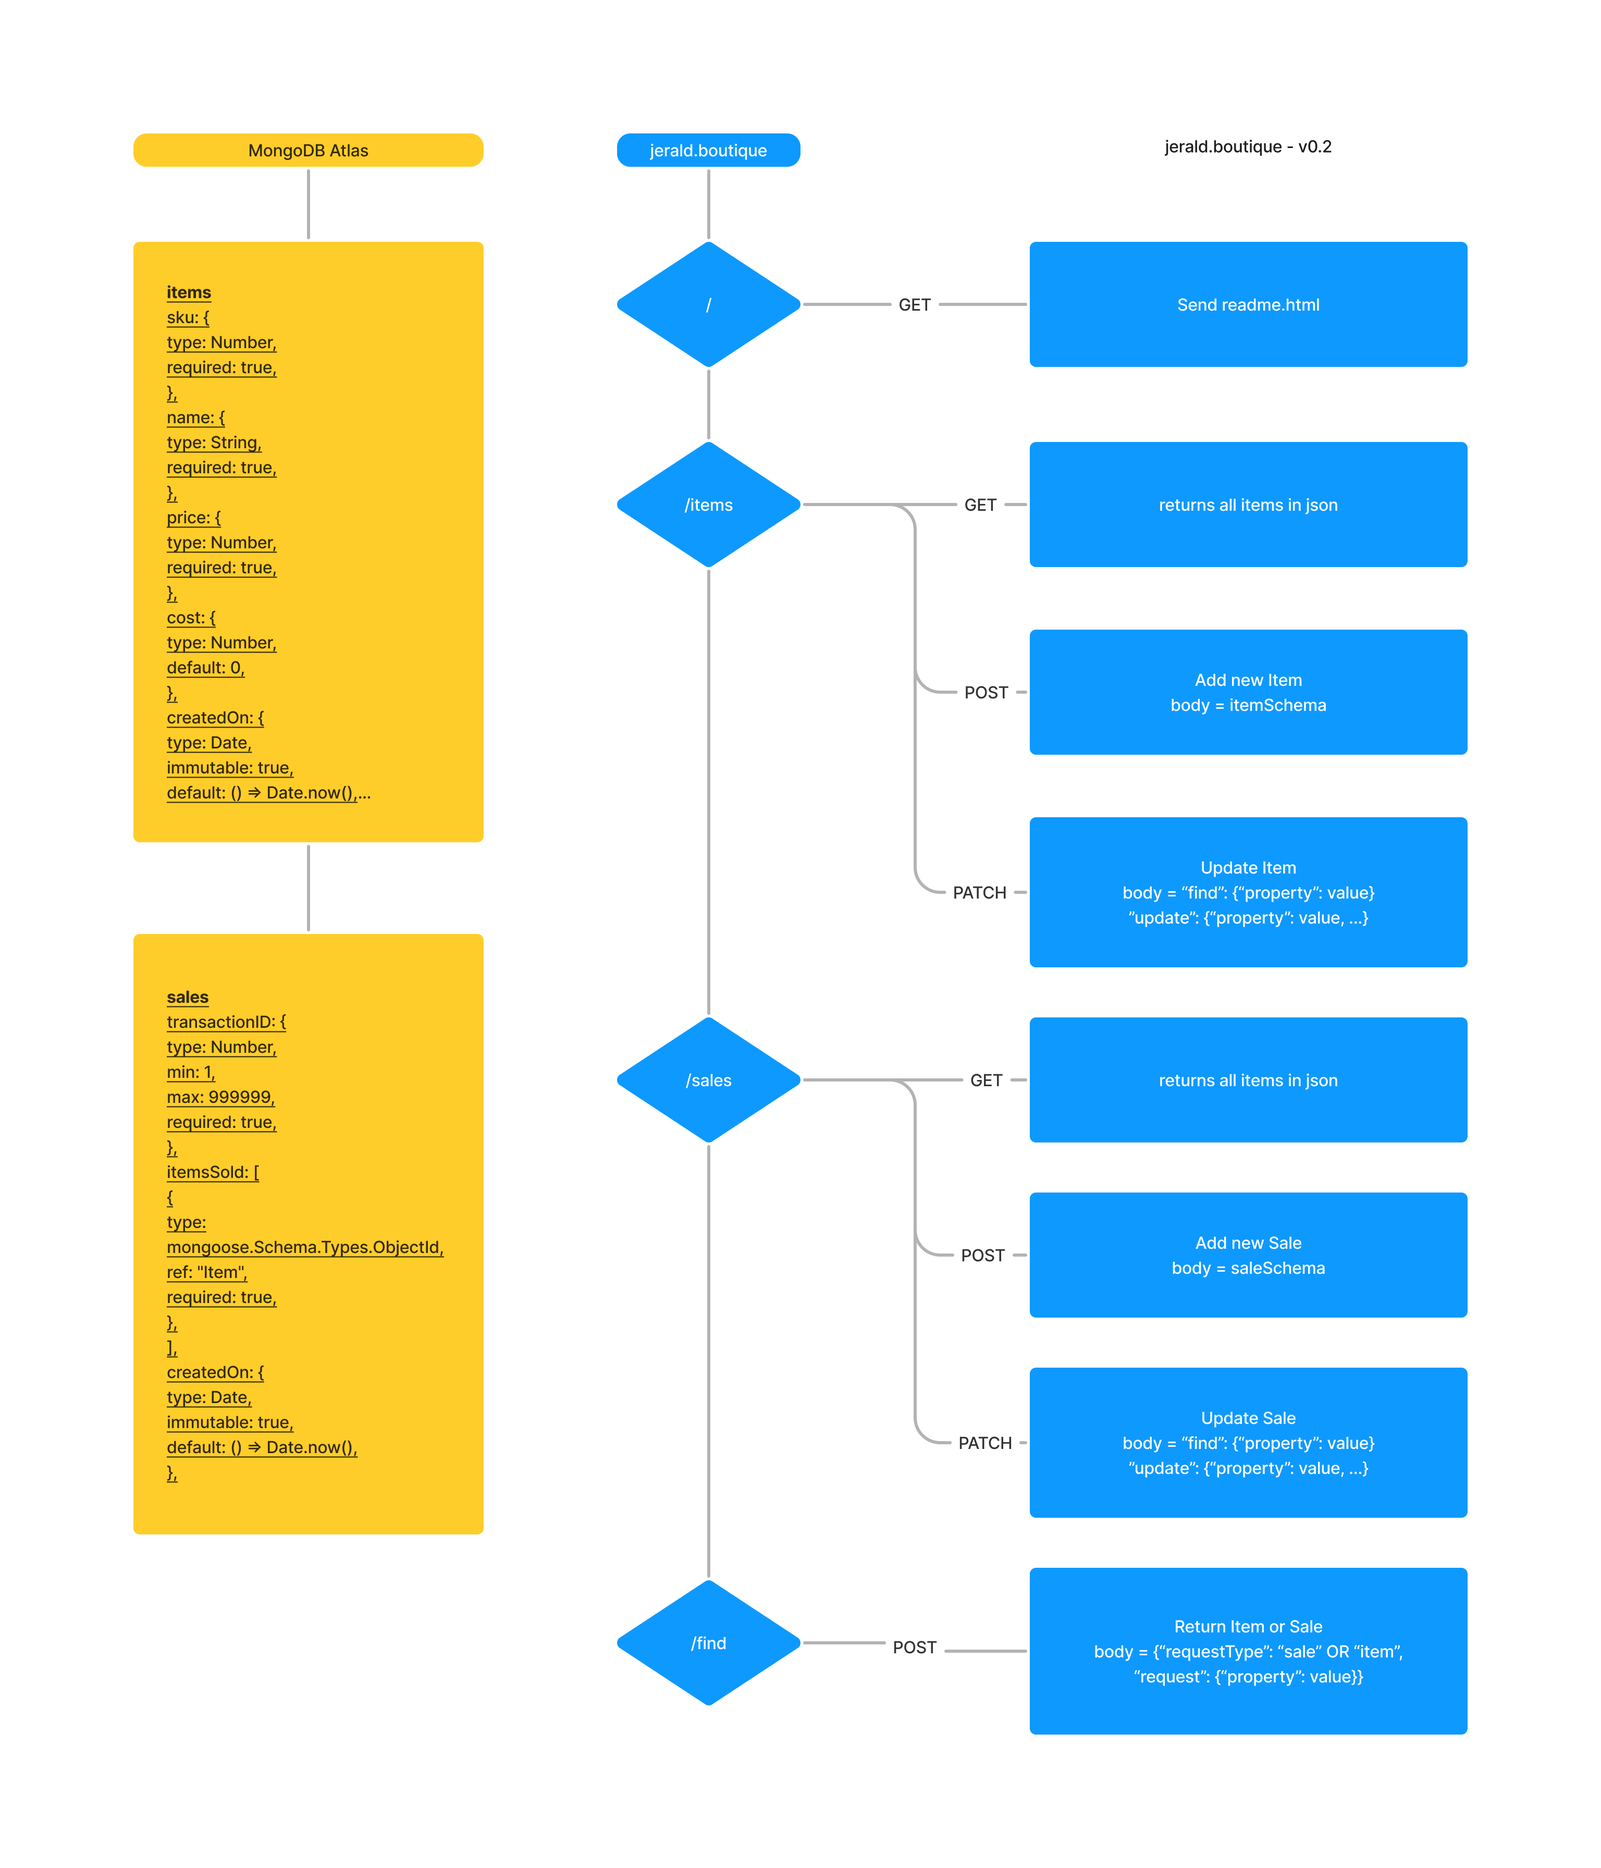
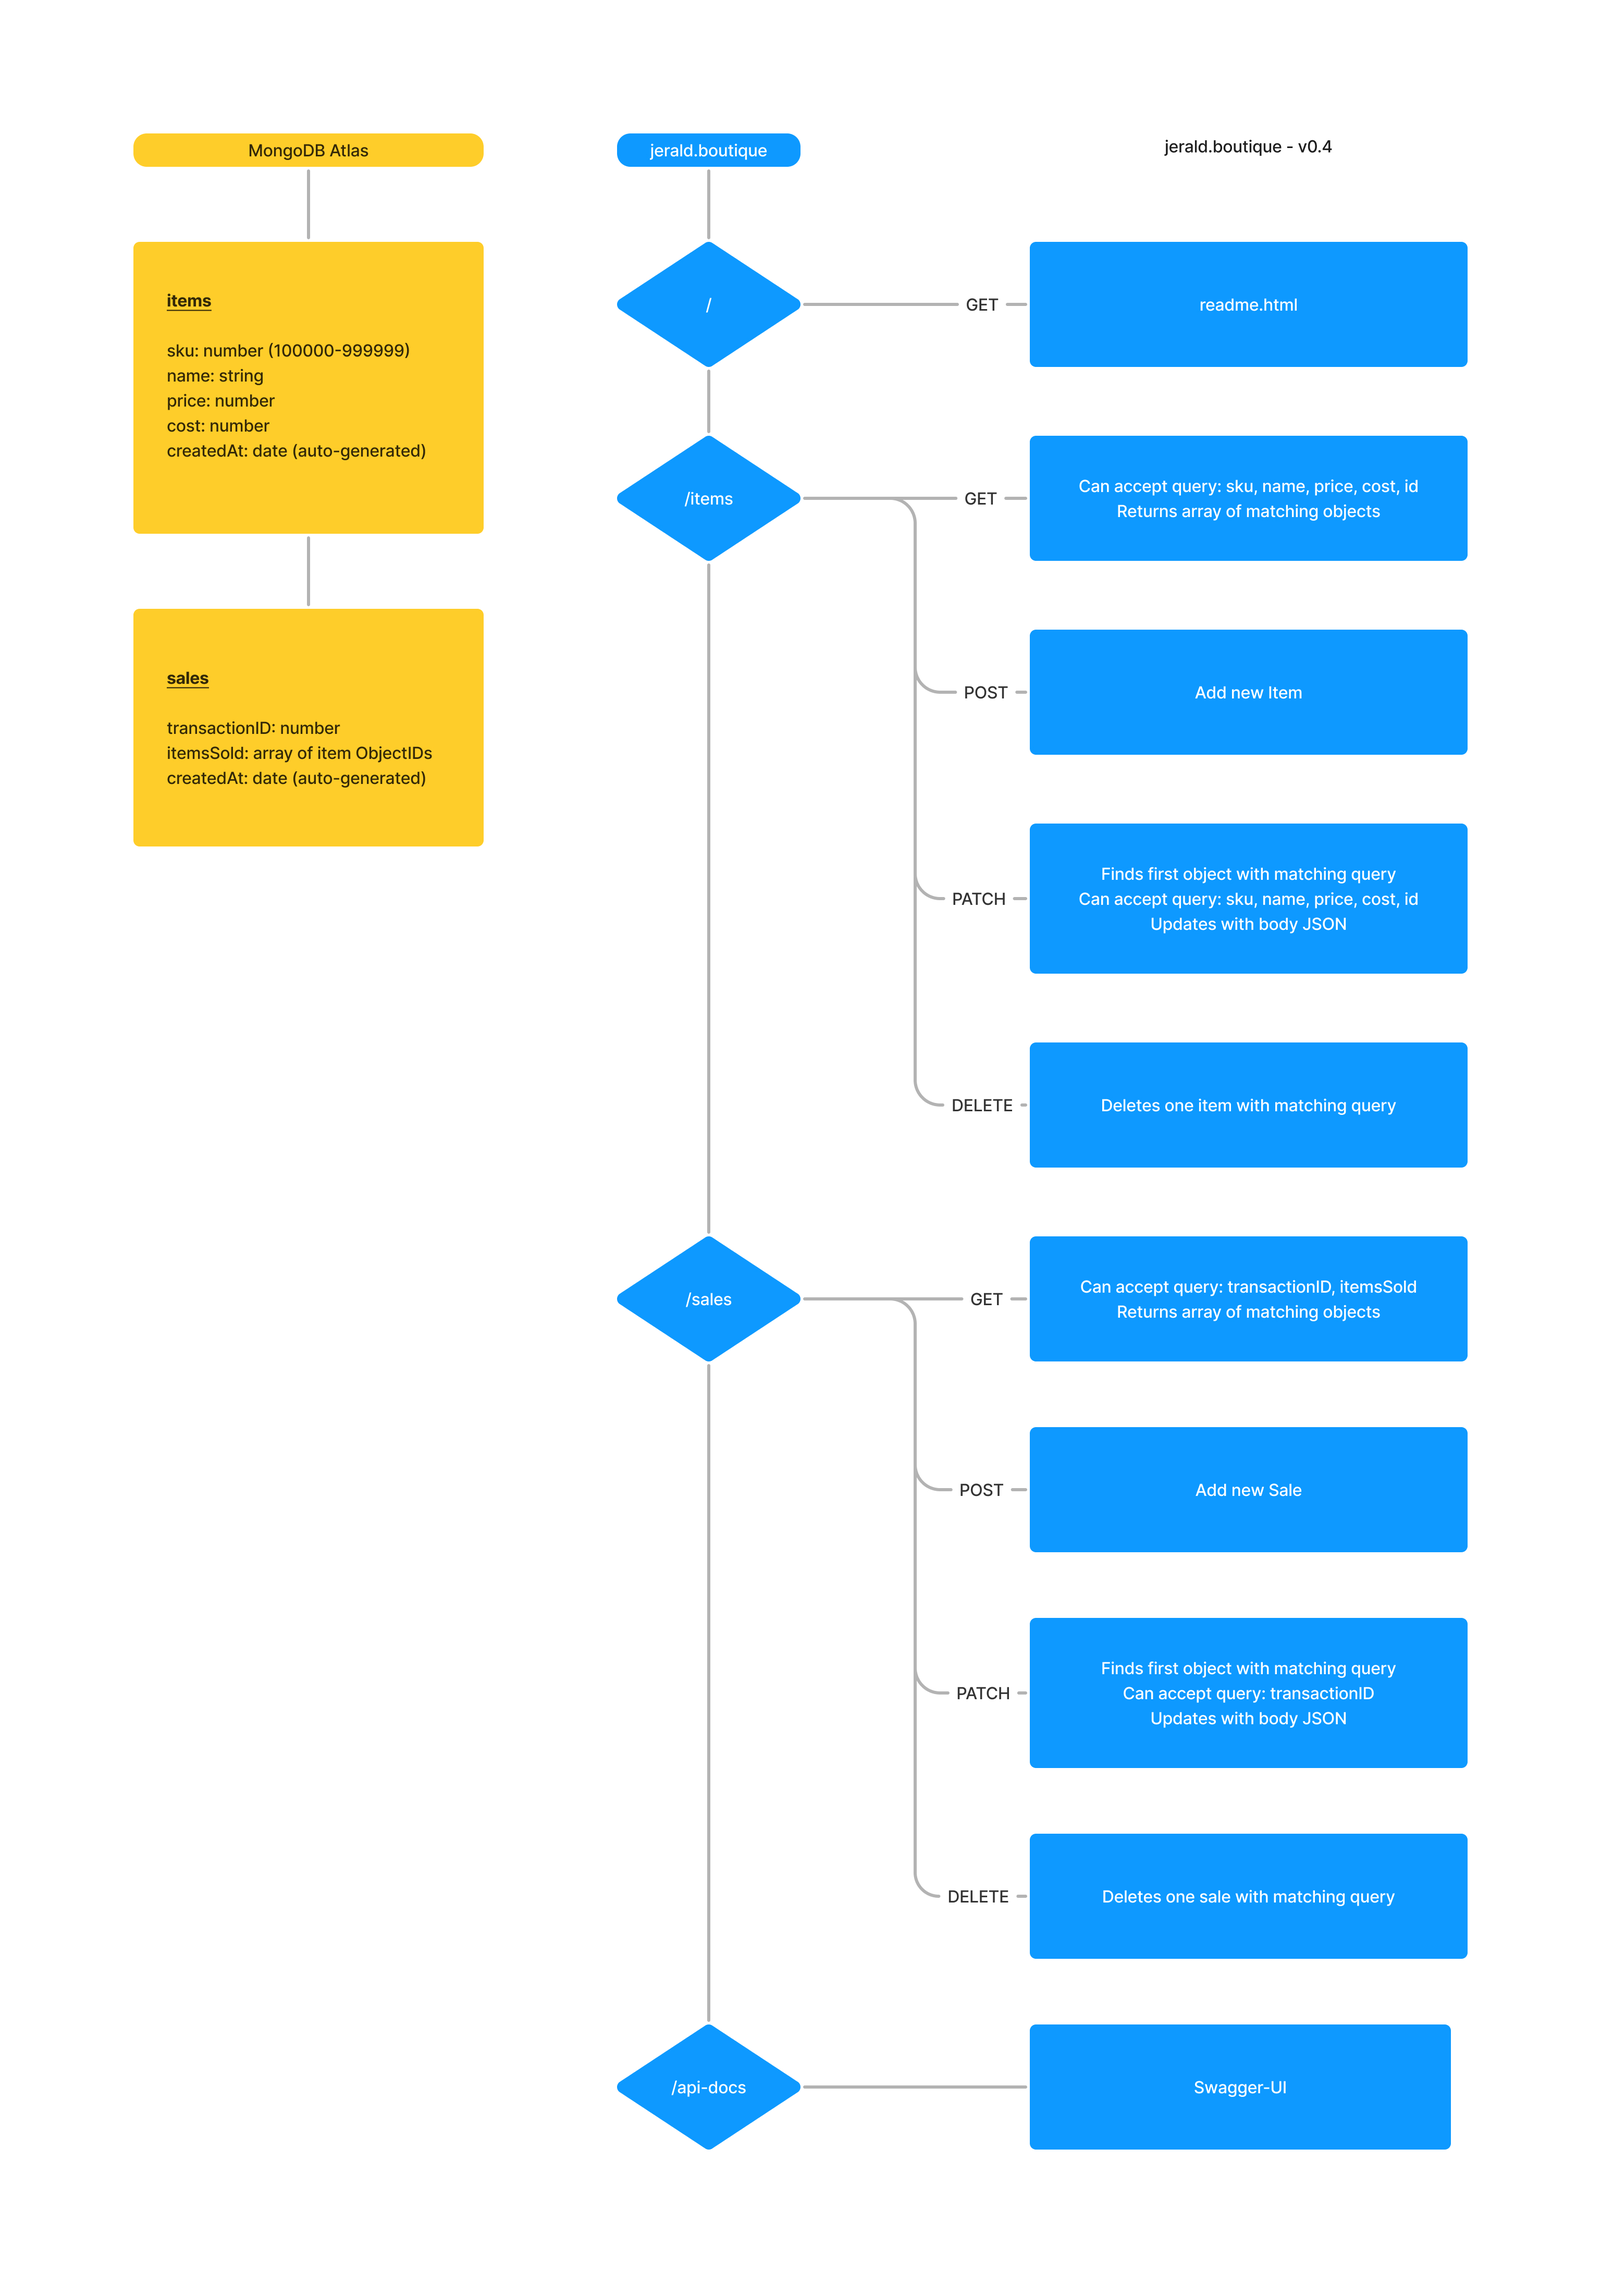
changed swagger back to api-docs

diff --git a/server.js b/server.js
@@ -17,7 +17,7 @@ const options = {
     openapi: "3.0.0",
     info: {
       title: "jerald.boutique",
-      version: "0.3.1",
+      version: "0.4.0",
       description: "Project 1 - Simple Proof of Concept for Sales & Inventory",
     },
   },
@@ -38,15 +38,15 @@ app.use(express.json());
 
 app.listen(PORT, () => console.log(`Listening on ${PORT}`));
 
-// app.get("/", (request, response) => {
-//   response.sendFile(dirname + "/readme.html");
-// });
-// app.get("/favicon.ico", (request, response) => {
-//   response.sendFile(dirname + "/favicon.ico");
-// });
-// app.get("/Project1.jpg", (request, response) => {
-//   response.sendFile(dirname + "/Project1.jpg");
-// });
-app.use("/", SwaggerUI.serve, SwaggerUI.setup(specs));
+app.get("/", (request, response) => {
+  response.sendFile(dirname + "/readme.html");
+});
+app.get("/favicon.ico", (request, response) => {
+  response.sendFile(dirname + "/favicon.ico");
+});
+app.get("/Project1.jpg", (request, response) => {
+  response.sendFile(dirname + "/Project1.jpg");
+});
+app.use("/api-docs", SwaggerUI.serve, SwaggerUI.setup(specs));
 app.use("/items", itemRouter);
 app.use("/sales", saleRouter);
